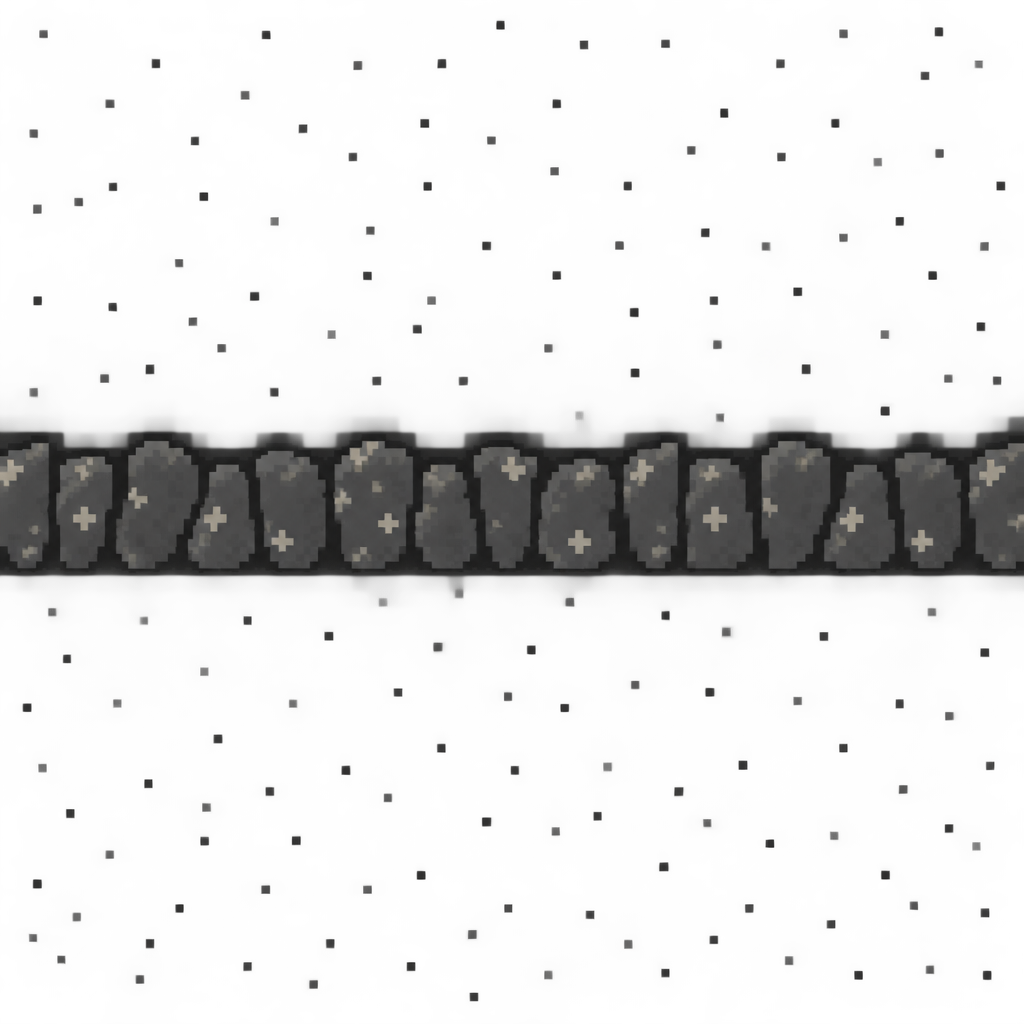
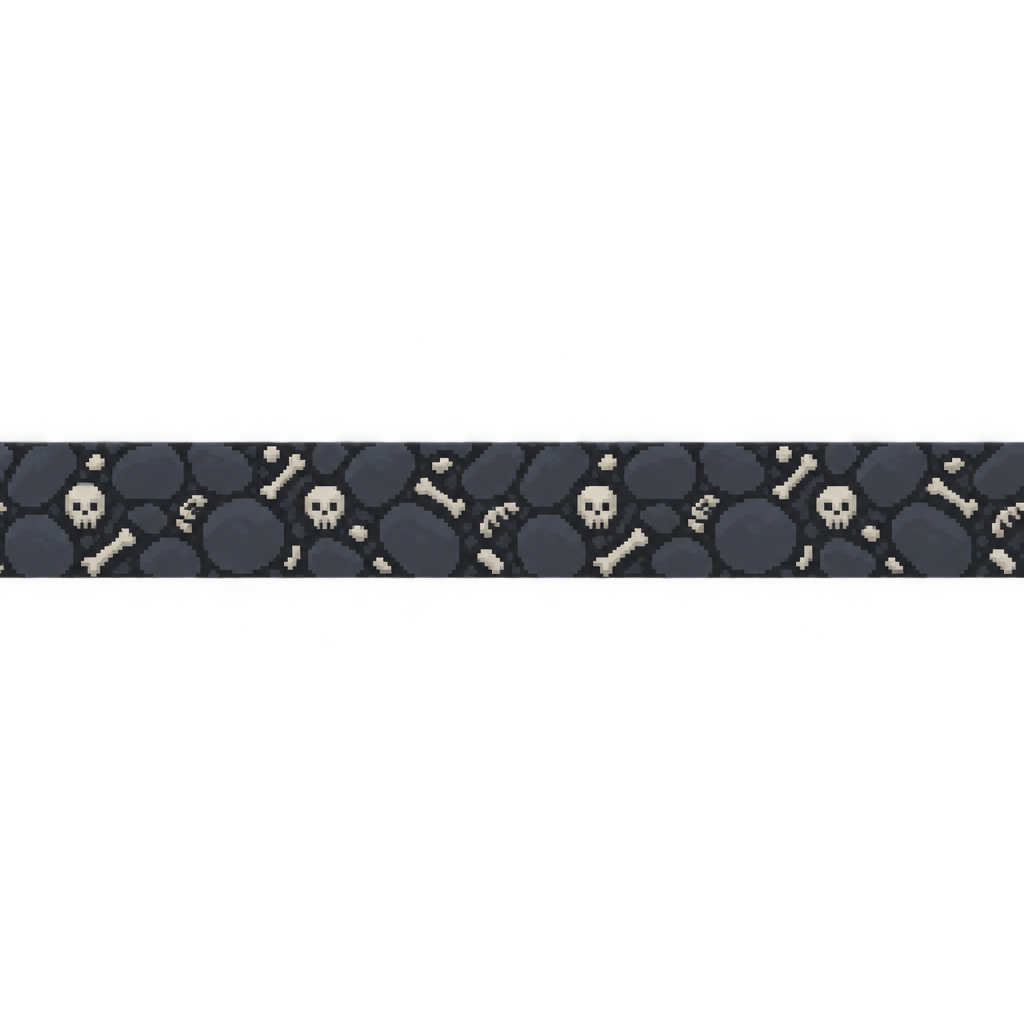
Redo the deck, ash_stone, harbour and moss_path road styles (DECISIONS R4)
Claude-Session: https://claude.ai/code/session_011tHXK9x9pRNyPPU24vg3Po

diff --git a/tools/gw_road_styles.py b/tools/gw_road_styles.py
@@ -2,8 +2,8 @@
 # Each entry: fill_desc, edge_desc, fill {colors, shares, patches?}, edge {colors, shares}. Palette names: tools/palette.json.
 STYLES.update({
     "deck": {
-        "fill_desc": "a wooden ship deck: parallel horizontal planks of weathered oak, each plank about 12 pixels tall, black tarred caulking seams between planks, staggered plank ends, a few nail heads and knots.",
-        "edge_desc": "a coiled ship's rope laid along the gunwale: thick twisted hemp rope with diagonal twist lines, tan and brown.",
+        "fill_desc": "pale sun-bleached holystoned ship deck: wide light grey-cream planks, nearly white, running horizontally, thin dark grey seams between planks, very subtle grain, a few small nail heads, clean and calm, little detail.",
+        "edge_desc": "a thick coil of black tarred rope laid along the edge of a deck: heavy twisted dark brown-black rope with diagonal twist lines and faint lighter highlights.",
     },
     "cobble": {
         "fill_desc": "dark wet round cobblestones of a gothic old-town street, tightly packed, irregular rounded stones with dark narrow gaps, a faint damp sheen, a few moss specks.",
@@ -34,8 +34,8 @@ STYLES.update({
         "edge_desc": "a row of white marble kerb blocks with a darker Greek key meander pattern engraved along the middle.",
     },
     "ash_stone": {
-        "fill_desc": "grey ash-covered slate flagstones of the underworld, dull cold grey, powdery ash in the cracks, no colour.",
-        "edge_desc": "a row of dark grey bone-white-flecked stones, like stacked rough tombstones, dull and cold.",
+        "fill_desc": "dark slate flagstones of the underworld: large irregular charcoal-blue slabs with narrow cracks, a few thin pale ghost-green glowing veins running in some of the cracks, calm, low contrast, little detail.",
+        "edge_desc": "a row of dark slate stones studded with small bone-white skulls and bone fragments set between the stones.",
     },
     "basalt": {
         "fill_desc": "cracked black volcanic basalt paving of hell: dark irregular plates with glowing orange-red lava seams between them, a few ember specks.",
@@ -46,8 +46,8 @@ STYLES.update({
         "edge_desc": "a band of polished gold trim on white marble with a repeating small leaf-and-bead pattern.",
     },
     "harbour": {
-        "fill_desc": "wet slimy teal-green harbour paving stones, uneven slabs coated in algae, puddles, barnacle clusters and small shells, dark gaps.",
-        "edge_desc": "a row of rough dark teal stones encrusted with white barnacles and strands of seaweed.",
+        "fill_desc": "large smooth wet harbour paving slabs in muted teal-grey, only a few big stones per image, wide dark gaps, very low contrast inside each stone, faint wet sheen, calm and simple, no barnacles.",
+        "edge_desc": "a row of smooth wet dark teal stones with just a few small white barnacles on them.",
     },
     "steel": {
         "fill_desc": "riveted steel deck plating of a futuristic machine fortress: grey-blue metal panels with thin dark seams and rows of small rivets, subtle scratches, diamond-tread pattern patches.",
@@ -62,8 +62,8 @@ STYLES.update({
         "edge_desc": "a ragged border of churned mud clods and tufts of fern leaves and grass, brown and olive green.",
     },
     "moss_path": {
-        "fill_desc": "a mossy forest path: packed earth and flat stones overgrown with soft green moss patches, a few fallen leaves and tiny mushrooms.",
-        "edge_desc": "a border of gnarled tree roots, twisting brown roots with green moss tufts, running along the edge.",
+        "fill_desc": "calm packed brown earth path seen from above: nearly uniform warm brown dirt with a few faint darker patches and very sparse small pebbles, simple and smooth, very low contrast, no leaves, no moss.",
+        "edge_desc": "a border of gnarled brown tree roots with soft green moss tufts growing along them, thick roots running along the edge.",
     },
 })
 
@@ -150,3 +150,21 @@ STYLES["hex"]["fill"] = _r(["concord_gunmetal_dark", "concord_gunmetal", "grey_d
 STYLES["hex"]["fill"] = _r(["grey_dark", "grey", "concord_lav_dark", "concord_plasma"], chroma_w=1.0, keep=["concord_plasma"], l_range=(0.42, 0.66))
 STYLES["hex"]["fill"] = _r(["concord_gunmetal_dark", "concord_gunmetal", "concord_lav_dark", "concord_lav"], _sh("concord_gunmetal_dark", .18, "concord_gunmetal", .32, "concord_lav_dark", .3, "concord_lav", .2), despeck=2)
 STYLES["hex"]["fill"] = _r(["concord_gunmetal_dark", "concord_gunmetal", "concord_lav_dark"], _sh("concord_gunmetal_dark", .2, "concord_gunmetal", .12, "concord_lav_dark", .68), despeck=2)
+
+# Redo (DECISIONS R4): deck pale holystoned planks with a black tarred rope kerb; ash_stone dark slate with ghost-green veins and a bone-studded
+# kerb; harbour large calm wet slabs; moss_path calm packed earth with a mossy root kerb. Sources regenerated with calmer prompts.
+STYLES["deck"]["fill"] = _r(["steel_dark", "steel", "steel_light"], _sh("steel_dark", .1, "steel", .35, "steel_light", .55), despeck=3)
+STYLES["deck"]["edge"] = _r(["ink_warm", "corsair_oak_dark", "corsair_oak", "corsair_oak_light"], _sh("ink_warm", .25, "corsair_oak_dark", .35, "corsair_oak", .28, "corsair_oak_light", .12))
+STYLES["ash_stone"]["fill"] = _r(["ink_cold", "norse_slab", "norse_slab_light", "norse_iron", "soul_dark", "soul"], chroma_w=1.0, keep=["soul", "soul_dark"], l_range=(0.2, 0.5), despeck=2)
+STYLES["ash_stone"]["edge"] = _r(["ink_cold", "grey_dark", "grey", "bone_mid", "bone"], chroma_w=0.5, keep=["bone", "bone_mid"])
+STYLES["harbour"]["fill"] = _r(["ink_drowned", "drowned_dark", "drowned"], _sh("ink_drowned", .14, "drowned_dark", .36, "drowned", .5), despeck=3, flatten=8)
+STYLES["harbour"]["edge"] = _r(["ink_drowned", "drowned_dark", "drowned", "bone_mid"], chroma_w=1.0, keep=["bone_mid"])
+STYLES["moss_path"]["fill"] = _r(["wild_bark_dark", "wild_bark", "wild_bark_light"], _sh("wild_bark_dark", .2, "wild_bark", .6, "wild_bark_light", .2), despeck=4, flatten=8)
+STYLES["moss_path"]["edge"] = _r(["wild_bark_dark", "wild_bark", "wild_bark_light", "wild_moss_dark", "wild_moss"], chroma_w=1.0)
+STYLES["deck"]["fill"] = _r(["steel_dark", "steel", "steel_light"], _sh("steel_dark", .08, "steel", .2, "steel_light", .72), despeck=4)
+STYLES["ash_stone"]["fill"] = _r(["ink_cold", "norse_slab", "norse_slab_light", "norse_iron", "soul_dark", "soul"], chroma_w=1.0, keep=["soul", "soul_dark"], l_range=(0.2, 0.5), despeck=2, box=(0.0, 0.0, 1.0, 1.0))
+STYLES["harbour"]["fill"] = _r(["ink_drowned", "drowned_dark", "drowned"], _sh("ink_drowned", .12, "drowned_dark", .6, "drowned", .28), despeck=3, flatten=8, l_range=(0.3, 0.46))
+STYLES["moss_path"]["fill"] = _r(["wild_bark_dark", "wild_bark", "wild_bark_light"], _sh("wild_bark_dark", .25, "wild_bark", .65, "wild_bark_light", .1), despeck=6, flatten=8, l_range=(0.38, 0.46))
+STYLES["moss_path"]["fill"] = _r(["wild_bark_dark", "wild_bark", "wild_bark_light"], _sh("wild_bark_dark", .18, "wild_bark", .78, "wild_bark_light", .04), despeck=8, flatten=10, l_range=(0.4, 0.45))
+STYLES["ash_stone"]["fill"] = _r(["ink_cold", "norse_slab", "norse_slab_light", "norse_iron", "soul_dark", "soul"], chroma_w=1.0, keep=["soul", "soul_dark"], l_range=(0.28, 0.58), despeck=2, box=(0.0, 0.0, 1.0, 1.0))
+STYLES["moss_path"]["fill"] = _r(["wild_bark_dark", "wild_bark", "wild_bark_light"], _sh("wild_bark_dark", .12, "wild_bark", .3, "wild_bark_light", .58), despeck=8, flatten=10, l_range=(0.5, 0.58))

diff --git a/docs/DECISIONS.md b/docs/DECISIONS.md
@@ -445,3 +445,5 @@ Audit tool `tools/spot_audit.tscn` (logic `scripts/td/spot_audit.gd`, thresholds
 | R1 | One reader | `TdRoadData` (`scripts/data/td_road_data.gd`): `STYLES` (id -> optional wear colours `shoulder` / `rut` / `cobble`; tiles are `assets/sprites/td/roads/<id>_fill.png` 48x48 seamless and `<id>_edge.png` 48x8) and `MAP_STYLES` (map id -> style, for a finale or an indoor map; kept out of the map files). An act picks its style with the optional `"road"` key of its `ActData` row. `MapRegistry.get_map()` is the only reader and writes the map's `"road"` key ("" = the original flagstones, `TdArtData` `road_fill` / `road_edge`); `MapView` asks `TdArt.road(style, part)` (falls back to the flagstones if a file is missing). Drawing is unchanged (rounded bends, `piece()`, world-space tiling, kerbs continuous along the centre line), so gentle many-segment curves (checked with a temporary spiral on the Cutter) and junctions stay clean. Visual only: Graveyard seeds 1 and 2 summaries byte-identical. |
 | R2 | Styles | Act I (the Covenant) and Act IV (the Last Line, `CityStreets` asphalt) keep their roads. Black Tide `deck` (pale bleached planks, tarred seams, rope kerb); Sanguine Court `cobble` (blue-grey wet cobbles, red-stained kerb), Castle Sanguis `carpet` (blood-red runner, gold braid); Shogunate `earth` (packed earth, stepping stones, plank border); Hall of the Slain `frost` (snow-dusted flagstones, snow-capped kerb), Valgard `hall` (slab stone, carved timber beam); Necropolis Dynasty `sandstone` (slabs, hieroglyph kerb); Olympian Republic `marble` (cream paving, Greek-key kerb), Underworld `ash_stone`; Inferno `basalt` (plates with glowing lava seams); Celestial Host `cloud` (pale marble with gold veins, gold kerb); Ancient Eye `harbour` (algae-slick stone, barnacle kerb); Electronic Empire `steel` (riveted plates, hazard-stripe kerb); Concord `hex` (lavender alien plating, glowing green kerb lights); Age of Titans `mud` (trampled mud with footprints, fern kerb); Turning Year `moss_path` (earth and moss, root kerb). The light styles (frost, sandstone, marble, cloud) get lighter wear colours so ruts and pebbles do not read as dirt. Rule for new styles: clearly lighter or differently hued than the act floor, low-noise, kerb distinct from fill. |
 | R3 | Art pipeline | `tools/gw_road_art.py gen|build` with prompts and palette recipes in `tools/gw_road_styles.py`: gpt-image-2.5-flare, medium, 1024 px, one fill and one kerb source per style (raw in `art_source/td_roads/`, never imported); `build` runs Necropathy's `make_tile.py` (quilted seamless, snapped to the locked palette by lightness-rank shares or hue-aware snapping); repeat check sheets in `art_source/td_roads/check/`. 16 styles (the `hall` style reuses the ash-stone fill source and the timber kerb source; the timber fill source went unused), 36 calls, about $0.51 (ledger rows `road_*`). The Web pack stays about 12 MB. Map-select thumbnails are not regenerated here (done once after the road layouts branch is merged). |
+| R4 | Redo of four weaker styles (owner) | `deck`: pale holystoned planks (steel-light, nearly white) with a black tarred rope kerb, strong value contrast against the brown deck floors (Cutter, Galleon, Maelstrom), light wear colours; `ash_stone` (Underworld): dark slate with thin ghost-green veins (full-source box so the veins do not repeat visibly) and a bone-studded kerb; `harbour` (Ancient Eye): a few large calm wet teal slabs, low inner contrast, kerb with only a few barnacles; `moss_path` (Turning Year): calm tan packed earth (almost no speckle: two-tone, heavy despeck, narrow `l_range`, because the quilt amplifies noise of a flat source) with a mossy root kerb; lighter than the first version so it also reads on the World-Tree's brown floor. New prompts in `tools/gw_road_styles.py` (the recipe appended last wins), 8 new calls, about $0.11 (ledger rows `road_*`). Graveyard seed 1 still `won skulls=3 time=450.52s ticks=27031`. |
+
